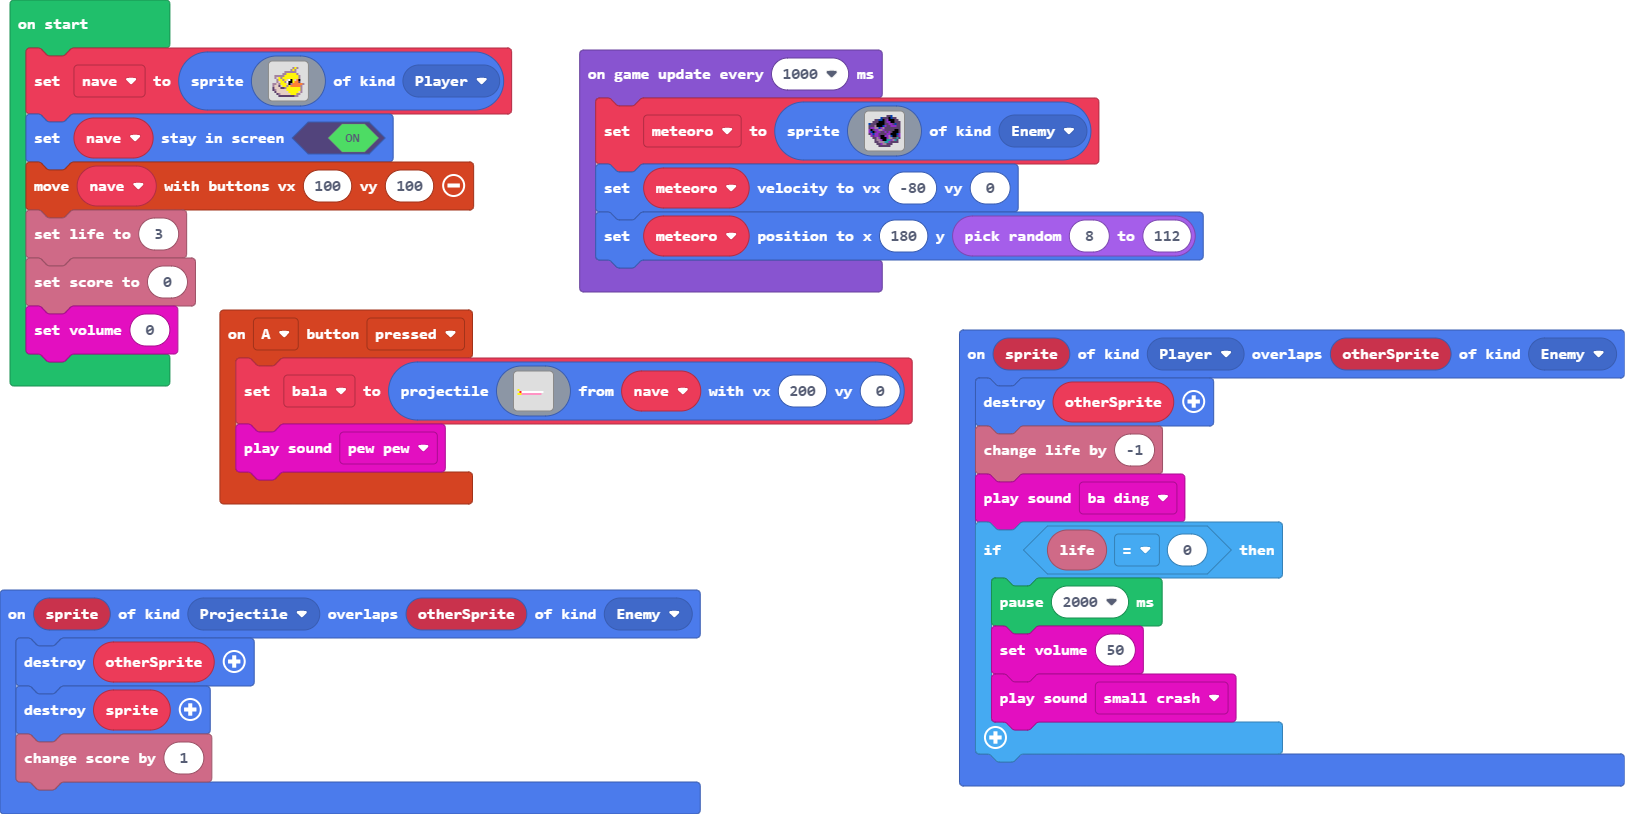
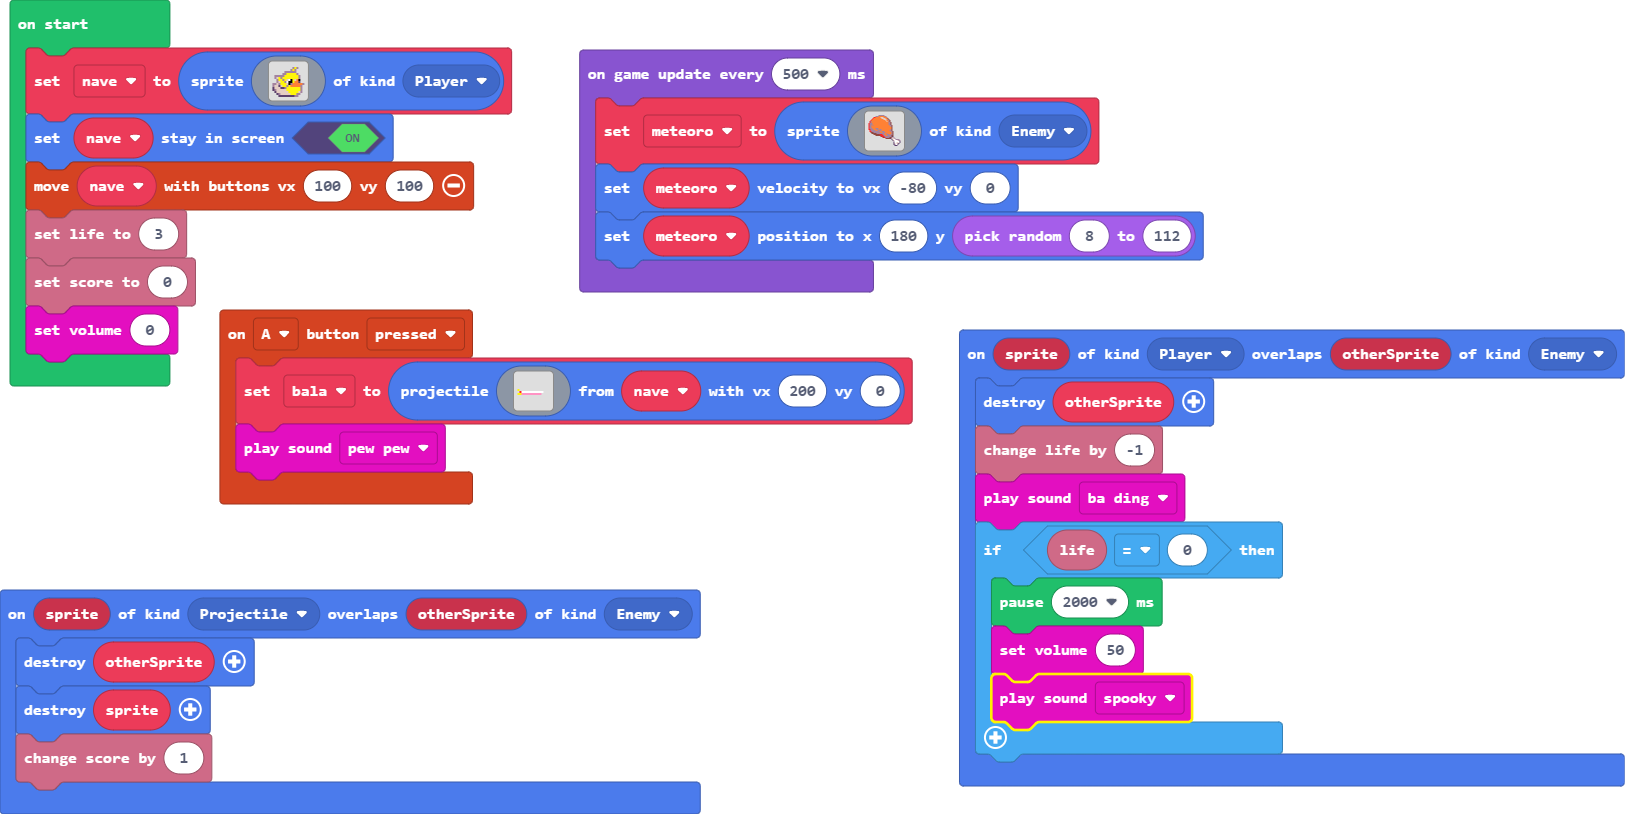
Se cambio el asteroide por una pierna de pollo, también se actualizo el tiempo a 500ms y se cambio de sonido...

diff --git a/main.ts b/main.ts
@@ -31,7 +31,7 @@ sprites.onOverlap(SpriteKind.Player, SpriteKind.Enemy, function (sprite, otherSp
     if (info.life() == 0) {
         pause(2000)
         music.setVolume(50)
-        music.smallCrash.play()
+        music.spooky.play()
     }
 })
 let meteoro: Sprite = null
@@ -60,24 +60,40 @@ controller.moveSprite(nave, 100, 100)
 info.setLife(3)
 info.setScore(0)
 music.setVolume(0)
-game.onUpdateInterval(1000, function () {
+game.onUpdateInterval(500, function () {
     meteoro = sprites.create(img`
-        . . . . . . . . . c c 8 . . . . 
-        . . . . . . 8 c c c f 8 c c . . 
-        . . . c c 8 8 f c a f f f c c . 
-        . . c c c f f f c a a f f c c c 
-        8 c c c f f f f c c a a c 8 c c 
-        c c c b f f f 8 a c c a a a c c 
-        c a a b b 8 a b c c c c c c c c 
-        a f c a a b b a c c c c c f f c 
-        a 8 f c a a c c a c a c f f f c 
-        c a 8 a a c c c c a a f f f 8 a 
-        . a c a a c f f a a b 8 f f c a 
-        . . c c b a f f f a b b c c 6 c 
-        . . . c b b a f f 6 6 a b 6 c . 
-        . . . c c b b b 6 6 a c c c c . 
-        . . . . c c a b b c c c . . . . 
-        . . . . . c c c c c c . . . . . 
+        ..........bbbbbb................
+        .......bbb444444bb..............
+        .....2244444ddd444b.............
+        ....244444444dddd44e............
+        ...244444444444ddd4be...........
+        ..244444444444444d44be..........
+        .2b444444444444444d4be..........
+        .2b44444444444444444bbe.........
+        2bbb4444444444444444bbe.........
+        2bbb4444444444444444bbe.........
+        2bb4b4444444444444444bbe........
+        2bb4444444444444444444be........
+        2bb44444444444444444444e........
+        2bbb444bbb4444444444444e........
+        22bbb444bb4bb444444444be........
+        .2bbbbb44bbbb44444444bbe........
+        .22bbbbbbbb44bbb444444bbe.......
+        ..eeebbbbbbb44bbb444444be.......
+        ...eeeeebbbbbbbb44b4444be.......
+        .....eeeeee222bb44bbb4bbe.......
+        .......eeeee222bb44bbbbee.......
+        ............e222bbbbbbbec.......
+        ..............ee2bbbbeebdb......
+        .................eeeeecdddb.....
+        .......................cd11bbbb.
+        ........................cd111dbb
+        .........................b11111c
+        .........................c11dd1c
+        .........................cd1dbc.
+        .........................cb11c..
+        ..........................ccc...
+        ................................
         `, SpriteKind.Enemy)
     meteoro.setVelocity(-80, 0)
     meteoro.setPosition(180, randint(8, 112))

diff --git a/images.g.ts b/images.g.ts
@@ -21,24 +21,6 @@ namespace myImages {
 . . . . . . . . . . . . . . . . 
 . . . . . . . . . . . . . . . . 
 `;
-            case "image3":return img`
-. . . . . . . . . c c 8 . . . . 
-. . . . . . 8 c c c f 8 c c . . 
-. . . c c 8 8 f c a f f f c c . 
-. . c c c f f f c a a f f c c c 
-8 c c c f f f f c c a a c 8 c c 
-c c c b f f f 8 a c c a a a c c 
-c a a b b 8 a b c c c c c c c c 
-a f c a a b b a c c c c c f f c 
-a 8 f c a a c c a c a c f f f c 
-c a 8 a a c c c c a a f f f 8 a 
-. a c a a c f f a a b 8 f f c a 
-. . c c b a f f f a b b c c 6 c 
-. . . c b b a f f 6 6 a b 6 c . 
-. . . c c b b b 6 6 a c c c c . 
-. . . . c c a b b c c c . . . . 
-. . . . . c c c c c c . . . . . 
-`;
             case "image1":return img`
 . . . . . . . . . . . . . . . . 
 . . . . . . . . . . b 5 b . . . 
@@ -56,6 +38,40 @@ c b d d d d d 5 5 5 5 5 5 5 b .
 . c d d d d d d 5 5 5 5 5 d b . 
 . . c b d d d d d 5 5 5 b b . . 
 . . . c c c c c c c c b b . . . 
+`;
+            case "image3":return img`
+..........bbbbbb................
+.......bbb444444bb..............
+.....2244444ddd444b.............
+....244444444dddd44e............
+...244444444444ddd4be...........
+..244444444444444d44be..........
+.2b444444444444444d4be..........
+.2b44444444444444444bbe.........
+2bbb4444444444444444bbe.........
+2bbb4444444444444444bbe.........
+2bb4b4444444444444444bbe........
+2bb4444444444444444444be........
+2bb44444444444444444444e........
+2bbb444bbb4444444444444e........
+22bbb444bb4bb444444444be........
+.2bbbbb44bbbb44444444bbe........
+.22bbbbbbbb44bbb444444bbe.......
+..eeebbbbbbb44bbb444444be.......
+...eeeeebbbbbbbb44b4444be.......
+.....eeeeee222bb44bbb4bbe.......
+.......eeeee222bb44bbbbee.......
+............e222bbbbbbbec.......
+..............ee2bbbbeebdb......
+.................eeeeecdddb.....
+.......................cd11bbbb.
+........................cd111dbb
+.........................b11111c
+.........................c11dd1c
+.........................cd1dbc.
+.........................cb11c..
+..........................ccc...
+................................
 `;
         }
         return null;
